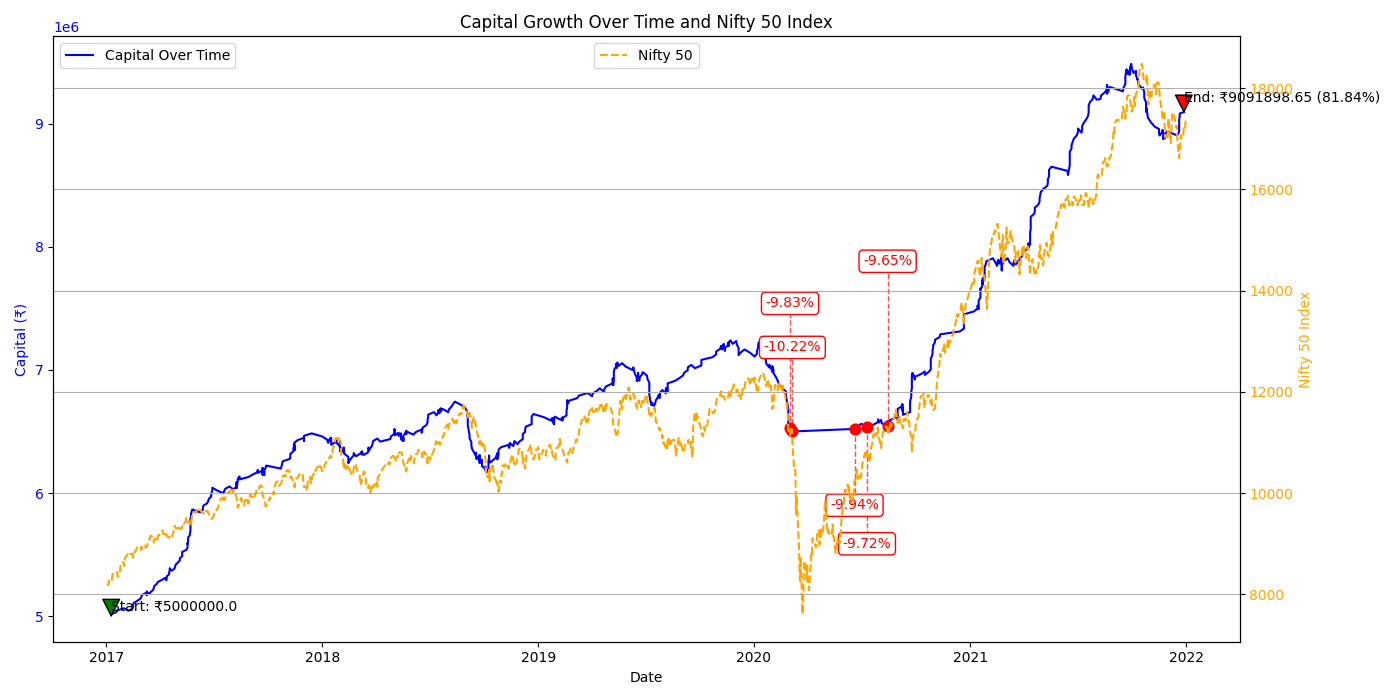
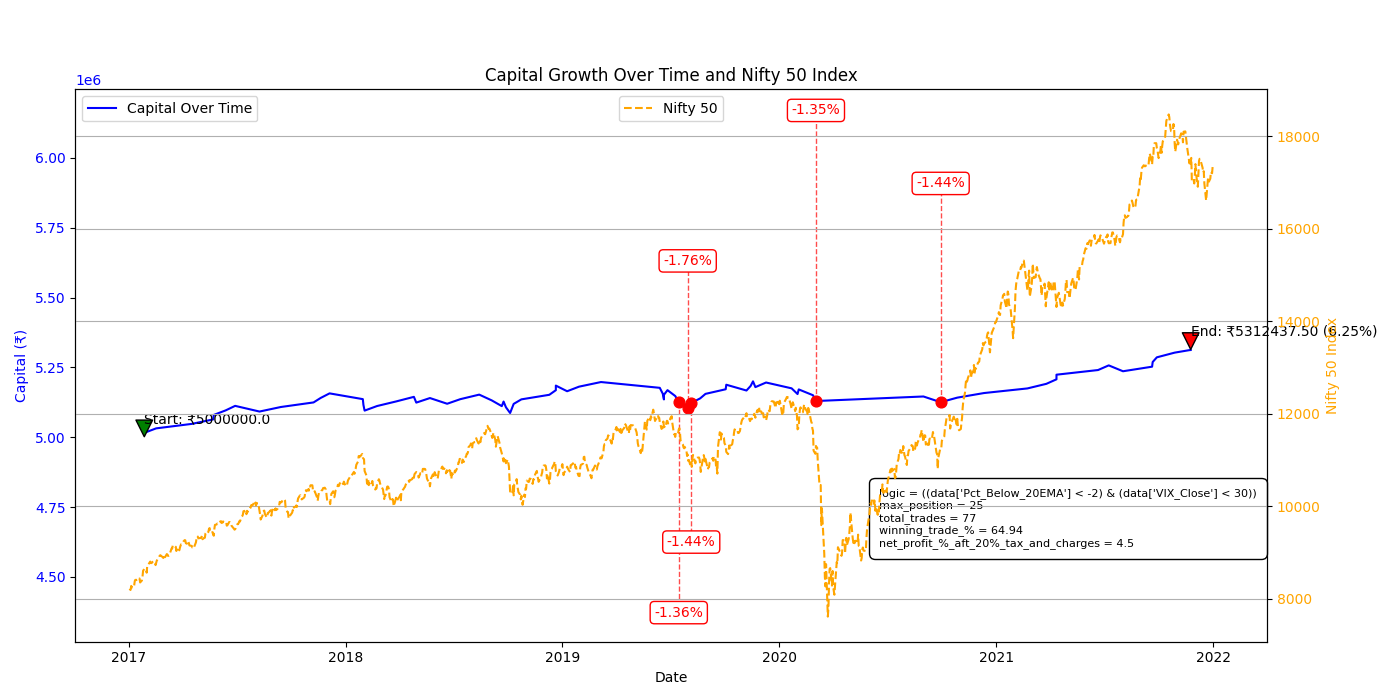
today

diff --git a/02.SwingTrade_BackTest/3.main_test1_with_vix.py b/02.SwingTrade_BackTest/3.main_test1_with_vix.py
@@ -42,7 +42,7 @@ def get_vix_by_date(date_str):
 
     # If your vix column is named "VIX"
     return float(row.iloc[0]['Close'])
-def draw_down_chart():
+def draw_down_chart(total_trades, winning_trades_per, net_profit ):
     all_trades = []
     # ---- Load all CSV files and merge ----
     if os.path.isdir(Reports_Dir) and os.listdir(Reports_Dir):
@@ -188,11 +188,11 @@ def draw_down_chart():
 
         # ---- Text Box with parameters ----
         textstr = '\n'.join((
-            f'capital = {capital}',
-            f'no_of_stock_to_trade = {no_of_stock_to_trade}',
-            f'compound = {compound}',
-            f'target_percentage = {target_percentage}',
-            f'stop_loss_percentage = {stop_loss_percentage}',
+            f'logic = {cond_buy_text}',
+            f'max_position = {no_of_stock_to_trade}',
+            f'total_trades = {total_trades}',
+            f'winning_trade_% = {winning_trades_per}',
+            f'net_profit_%_aft_20%_tax_and_charges = {round(net_profit - (net_profit * 0.20),2)}',
         ))
 
         anchored_text = AnchoredText(
@@ -203,13 +203,12 @@ def draw_down_chart():
             bbox_transform=ax1.transAxes,
             prop=dict(size=8)
         )
-
+        anchored_text.patch.set_boxstyle("round,pad=0.5,rounding_size=0.5")
+        ax1.add_artist(anchored_text)
         # ---- Save and show ----
         plt.savefig(f'{Charts_Dir}/draw_down_{symbols_type}_{from_date}_to_{to_date}.png')
         plt.show()
         plt.close()
-
-
 
 def create_master_file(summary_dir, from_date, to_date, capital):
     # Initialize lists to store data
@@ -297,10 +296,12 @@ def create_master_file(summary_dir, from_date, to_date, capital):
 
     # Save Master DataFrame to CSV
     master_df.to_csv(f"{master_dir}/Master_{from_date}_to_{to_date}.csv", index=False)
-
     print(f"Master file created successfully at {master_dir}/Master_{from_date}_to_{to_date}.csv")
+    ###
 
-
+    net_profit = round((sum(total_profit_after_charges) / capital) * 100, 2)
+    draw_down_chart(sum(total_trades), round((sum(total_winning_trades) / sum(total_trades)) * 100, 2) if sum(
+            total_trades) > 0 else 0, round((sum(total_profit_after_charges) / capital) * 100, 2) ,)
 # Function to calculate summary statistics for each stock
 def calculate_summary_per_stock(symbol, report_df, Summary_Dir):
     total_trades = len(report_df)
@@ -596,6 +597,8 @@ def mark_signals(enctoken, symbol, start_date, end_date):
 
     # Indicators
     data['EMA20'] = data['Close'].ewm(span=20, adjust=False).mean()
+    data['EMA50'] = data['Close'].ewm(span=50, adjust=False).mean()
+    data['EMA100'] = data['Close'].ewm(span=100, adjust=False).mean()
     data['EMA200'] = data['Close'].ewm(span=200, adjust=False).mean()
     data['Pct_Below_20EMA'] = (data['Close'] - data['EMA20']) / data['EMA20'] * 100
     data['RSI14'] = talib.RSI(data['Close'], timeperiod=14)
@@ -615,14 +618,15 @@ def mark_signals(enctoken, symbol, start_date, end_date):
     data['StopLoss'] = np.nan
     data['Avg_Down_Level'] = np.nan
     data['Target'] = np.nan
-    #base_cond 2017-2021 ==> 80%, DD:11%
-    #base_cond & cond_buy_2 2017-2021==> 81% , DD :11%
+    global cond_buy_text
     # Buy logic per row
-    base_cond = ((data['EMA20'] > data['EMA200']) & (data['Pct_Below_20EMA'] < -2) & (data['VIX_Close'] < 30))
-    cond_buy_1 = (data['RSI14'] < 40)
-    cond_buy_2 = (~block_first_5)  # ← No trades in first 5 days after red month
-    cond_buy = base_cond #& cond_buy_2 #& cond_buy_2 & #cond_buy_3
-
+    cond_buy_text = "((data['Pct_Below_20EMA'] < -2) & (data['VIX_Close'] < 30))"
+    #cond_buy_text = "((data['EMA20'] > data['EMA200']) & (data['Pct_Below_20EMA'] < -2) & (data['VIX_Close'] < 30))"
+    #cond_buy_text = "(data['Pct_Below_20EMA'] < -2) & (data['VIX_Close'] < 30) #& (data['RSI14'] < 40)"
+    #cond_buy_text = "((data['Pct_Below_20EMA'] < -2) & (data['VIX_Close'] < 30)) & (~block_first_5)"  # ← No trades in first 5 days after red month
+    #####################
+    cond_buy = eval(cond_buy_text)
+    ################
     data.loc[cond_buy, 'Buy_Signal'] = data.loc[cond_buy, 'Close']
     data.loc[cond_buy, 'StopLoss'] = data.loc[cond_buy, 'Buy_Signal'] * 0.90
     data.loc[cond_buy, 'Avg_Down_Level'] = data.loc[cond_buy, 'Buy_Signal'] * 0.97
@@ -715,4 +719,3 @@ get_india_vix_data()
 start_processing_symbols(enctoken, symbols_file, from_date, to_date)
 get_stock_for_reference_date(enctoken, cvs_data_dir, cvs_raw_data, from_date, to_date)
 procee_final_report(Reports_Dir)
-draw_down_chart()
